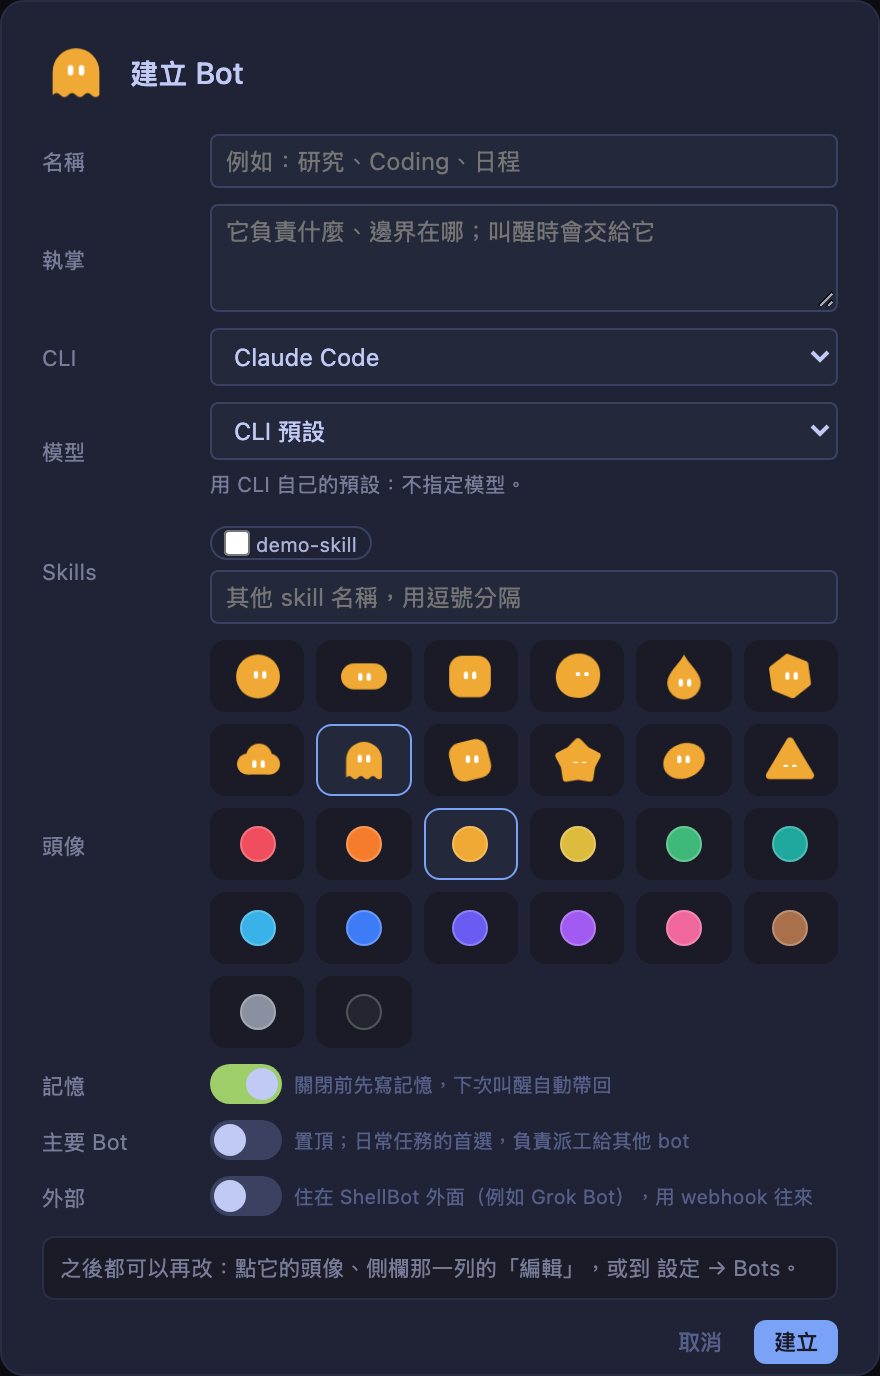
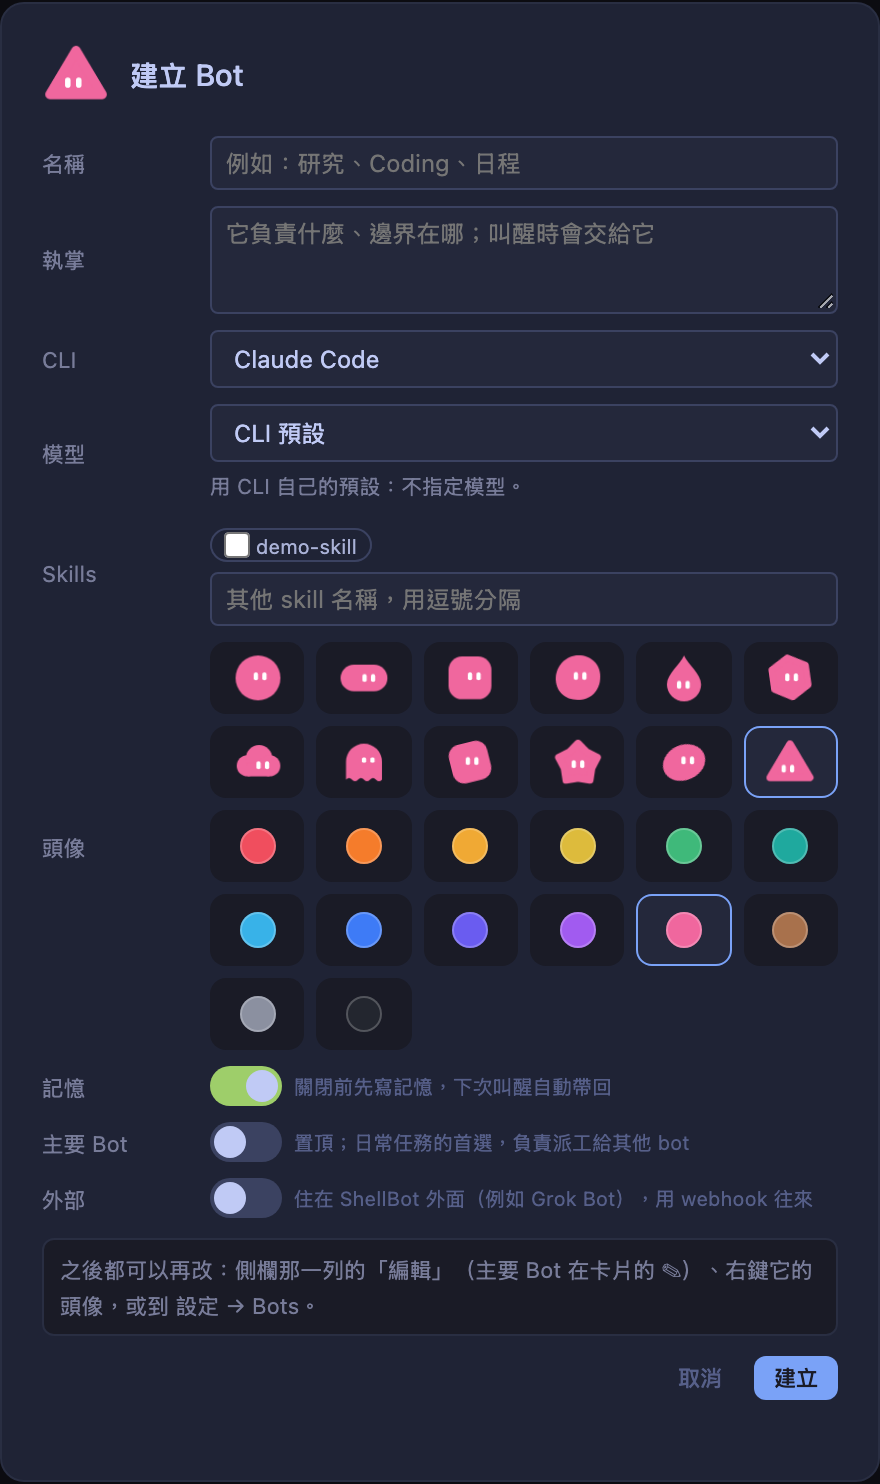
The "change it later" note names the doors that work: a click on a sidebar face changes its light, a right-click opens settings
The note at the end of making a bot said "click its face". In the sidebar a click on a face still cycles
the light by hand, and on the primary card a click wakes the bot: only the chat view's big face and the
terminal's small one take a plain click. It now says what works everywhere: Edit on its row in the sidebar
(the ✎ on the card for the primary bot), a right-click on its face, or Settings → Bots. The creation
screenshot is taken in a window tall enough to show the whole editor, buttons included.
Tests: tests_bot_settings_ui.py (the note's words; 132 checks, Chromium and WebKit).

diff --git a/web/bots.js b/web/bots.js
@@ -869,10 +869,11 @@
   }
 
   // Where a bot's settings are changed afterwards: said at the end of every way to make one (the editor,
-  // Keep, a toast), so nobody has to hunt for it. All of it, name to skills, in any of these:
+  // Keep, a toast), so nobody has to hunt for it. All of it, name to skills, in any of these. (A click on a
+  // face in the sidebar changes its light and a click on the card wakes the bot, so the words say right-click.)
   const whereWords = () => t(
-    'You can change all of this later: click its face, press Edit on its row in the sidebar, or open Settings → Bots.',
-    '之後都可以再改：點它的頭像、側欄那一列的「編輯」，或到 設定 → Bots。');
+    'You can change all of this later: Edit on its row in the sidebar (the ✎ on the card for the primary bot), right-click its face, or open Settings → Bots.',
+    '之後都可以再改：側欄那一列的「編輯」（主要 Bot 在卡片的 ✎）、右鍵它的頭像，或到 設定 → Bots。');
 
   // ── the model: picked from the CLI's own list ─────────────────────────────
   // The lists (and what each launch command can pin) come from Python (bots_model_info, built from

diff --git a/tests_bot_settings_ui.py b/tests_bot_settings_ui.py
@@ -443,11 +443,12 @@ def run(browser, engine):
 
     print(f"[{engine}] 9. the last step of making a bot says where to change it")
     page, errors = open_page(browser)
+    page.set_viewport_size({"width": 1100, "height": 1100})        # tall enough that the whole editor, buttons included, is in the shot
     page.locator("#sidebar-sessions .sfb-add").click()
     page.wait_for_selector(".sfb-modal #sfb-ed-name")
     note = page.inner_text(".sfb-modal .sfb-where")
-    check("the creation editor ends with where it is changed later: the face, the row's Edit, Settings → Bots",
-          "點它的頭像" in note and "側欄那一列的「編輯」" in note and "設定 → Bots" in note, note)
+    check("the creation editor ends with where it is changed later: the row's Edit (the card's ✎), a right-click on the face, Settings → Bots",
+          "側欄那一列的「編輯」" in note and "卡片的 ✎" in note and "右鍵它的頭像" in note and "設定 → Bots" in note, note)
     page.locator(".sfb-modal .modal").screenshot(path=str(SHOTS / f"botset-create-note{tag}.png"))
     page.fill("#sfb-ed-name", "新的助手")
     page.click(".sfb-modal [data-act='save']")
